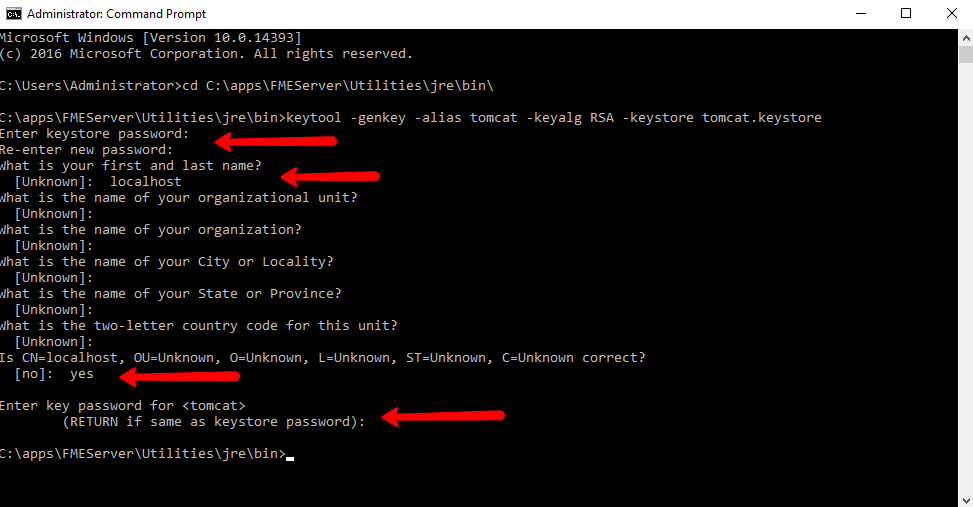
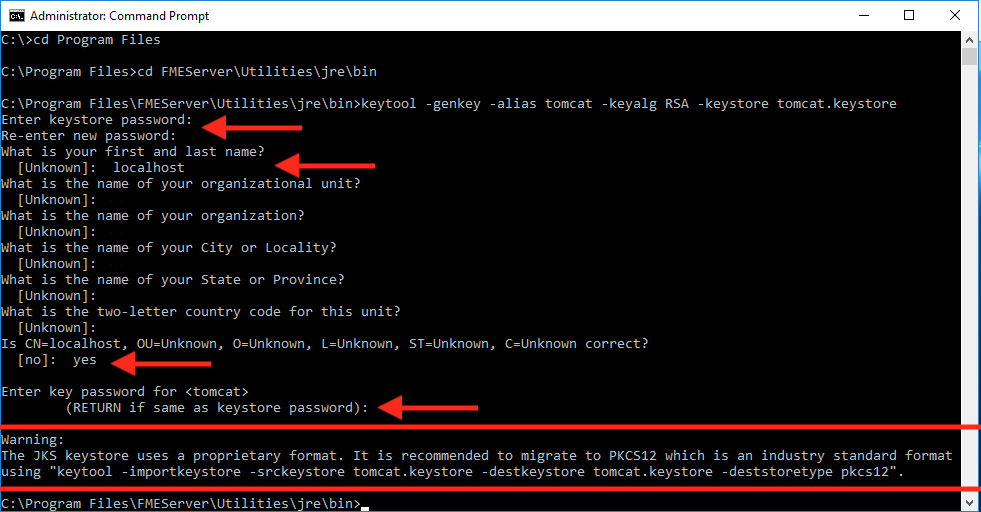
FME Server 2018 Updates

Changed region(s): [[0.0, 0.0, 1.0, 1.0], [0.8633, 0.0, 0.8941, 0.0296]]

diff --git a/ServerAdmin3Security/Exercise3_ConfiguringForHTTPS.md b/ServerAdmin3Security/Exercise3_ConfiguringForHTTPS.md
@@ -58,19 +58,46 @@ Set the following values when prompted:
 
 Enter *yes* when prompted if the input is correct. When prompted for the key password for &lt;tomcat&gt;, press RETURN.
 
-A new keystore is created in *C:\apps\FMEServer\Utilities\jre\bin\\*
-
-Copy the new keystore file to the tomcat directory in the FME Server installation:
-
-	copy tomcat.keystore C:\apps\FMEServer\Utilities\tomcat\tomcat.keystore
 
 ![](./Images/3.204.Ex3.ConfigureForHTTPS_createKeytool.png)
 
+A new keystore is created in *C:\Program Files\FMEServer\Utilities\jre\bin\\*
+
+Copy the new keystore file to the tomcat directory in the FME Server installation:
+
+	copy tomcat.keystore "C:\Program Files\FMEServer\Utilities\tomcat\tomcat.keystore"
+
+
+---
+
+<!--Tip Section-->
+
+<table style="border-spacing: 0px">
+<tr>
+<td style="vertical-align:middle;background-color:darkorange;border: 2px solid darkorange">
+<i class="fa fa-info-circle fa-lg fa-pull-left fa-fw" style="color:white;padding-right: 12px;vertical-align:text-top"></i>
+<span style="color:white;font-size:x-large;font-weight: bold;font-family:serif">TIP</span>
+</td>
+</tr>
+
+<tr>
+<td style="border: 1px solid darkorange">
+<span style="font-family:serif; font-style:italic; font-size:larger">
+Ensure the keystore file is **COPIED** NOT moved.
+<br>This is most important when working with a
+<br>distributed FME Server Core and FME Server
+<br>Web Application.
+</span>
+</td>
+</tr>
+</table>
+
+---
 
 <br>**2) Working with the Certificate**
 <br>The new keystore must be imported into the FME Server keystore for trusted certificates. In the command prompt, enter the following command:
 
-	keytool -importkeystore -srckeystore tomcat.keystore -destkeystore C:\apps\FMEServer\Utilities\jre\lib\security\cacerts
+	keytool -importkeystore -srckeystore tomcat.keystore -destkeystore "C:\Program Files\FMEServer\Utilities\jre\lib\security\cacerts"
 
 You will be prompted to enter two passwords. One for the destination keystore and one for the source keystore. The password for the destination keystore is **changeit**. The password for the source keystore is **tomcat**.
 
@@ -79,14 +106,14 @@ You will be prompted to enter two passwords. One for the destination keystore an
 ---
 
 **Configuring Tomcat**
-<br>In the next steps, we need to modify three configuration files of Apache Tomcat. All three files are located in the FME Server installation directory: *C:\apps\FMEServer\Utilities\tomcat\conf\\*
+<br>In the next steps, we need to modify three configuration files of Apache Tomcat. All three files are located in the FME Server installation directory: *C:\Program Files\FMEServer\Utilities\tomcat\conf\\*
 
 It is a good idea to make copies of any files you will be changing and place them in a separate directory until you have verified that the edits are working successfully.
 
 ---
 
 **3) Configure server.xml**
-<br>Open *C:\apps\FMEServer\Utilities\tomcat\conf\server.xml* file in a text editor in administrator mode.
+<br>Open *C:\Program Files\FMEServer\Utilities\tomcat\conf\server.xml* file in a text editor in administrator mode.
 
 Locate the *SSLEngine* setting in the *&lt;Listener&gt;* element, including *className="org.apache.catalina.core.AprLifecycleListener"* and change the *“on”* value to *“off”*.
 
@@ -99,7 +126,7 @@ Locate the *&lt;Connector&gt;* element that contains *protocol="org.apache.coyot
 		enableLookups="true" disableUploadTimeout="true"
 		acceptCount="100" maxThreads="200"
 		scheme="https" secure="true" SSLEnabled="true"
-		keystoreFile="C:\apps\FMEServer\Utilities\tomcat\tomcat.keystore"
+		keystoreFile="C:\Program Files\FMEServer\Utilities\tomcat\tomcat.keystore"
 		keystorePass="tomcat"
 		clientAuth="false" sslEnabledProtocols="TLSv1,TLSv1.1,TLSv1.2"
 		sslImplementationName="org.apache.tomcat.util.net.jsse.JSSEImplementation"
@@ -149,7 +176,7 @@ Save and close the *context.xml* file.
 <br>**6) Verify the Configuration**
 <br>Now that we have made our changes, we want to verify that HTTPS was configured correctly for FME Server.
 
-Restart the FME Server Application service from the **Start menu &gt; FME Server 2017.1 &gt; Restart FME Server**.
+Restart the FME Server Application service from the **Start menu &gt; FME Server 2018.0 &gt; Restart FME Server**.
 
 Open a browser and navigate to _https://localhost:8443/fmeserver_.
 
@@ -159,7 +186,7 @@ You should see the FME Server login page in a secured format.
 
 Note: If a self-signed certificate is used for testing, your browser may report the page as not secure:
 
-![](./Images/3.206.Ex4.ConnectionNotSecure_Warning.png)
+![](./Images/3.207.Ex3.ConnectionNotSecure_Warning.png)
 
 For self-signed certificates, some browsers will allow you to add an exception for _https://localhost:8443/_.
 
@@ -180,6 +207,34 @@ The *Change All Hosts* dialog opens. Make sure **Host** is set to _https://local
 The URLs will be updated to their new, correct values on the Services page.
 
 ![](./Images/3.211.Ex3.NewServiceURLs.png)
+
+
+
+---
+
+<!--Tip Section-->
+
+<table style="border-spacing: 0px">
+<tr>
+<td style="vertical-align:middle;background-color:darkorange;border: 2px solid darkorange">
+<i class="fa fa-info-circle fa-lg fa-pull-left fa-fw" style="color:white;padding-right: 12px;vertical-align:text-top"></i>
+<span style="color:white;font-size:x-large;font-weight: bold;font-family:serif">TIP</span>
+</td>
+</tr>
+
+<tr>
+<td style="border: 1px solid darkorange">
+<span style="font-family:serif; font-style:italic; font-size:larger">
+If you are making use of WebSockets with FME Server
+<br> please review the FME Server Admin Guide and
+<br> the section titled
+[Enable SSL on the WebSocket Server (Optional)](http://docs.safe.com/fme/2018.0/html/FME_Server_Documentation/Content/AdminGuide/configuring_for_https.htm)
+
+
+</span>
+</td>
+</tr>
+</table>
 
 ---
 

diff --git a/ServerAdmin3Security/3.06.FMEServerHTTPS.md b/ServerAdmin3Security/3.06.FMEServerHTTPS.md
@@ -3,7 +3,3 @@
 HTTPS ensures that communication between the client and server is encrypted, so that if it is intercepted, the third party cannot easily view or use the information. For FME Server, you can use HTTPS to ensure that sensitive login information is not exposed.
 
 When configuring FME Server for HTTPS, both Certification Authority (CA)-issued and self-signed certificates are supported.  Wildcard Certificates are also supported.
-
-<!--** SM: Need to consider expanding**
-Add configuration topics for distributed environments where Core and App Server are on separate systems. The steps in the doc do cover this but the steps must be carefully followed as it is easy to move the keystore file.  In summary both systems must have the keystores updated with the imported certificate.
--->

diff --git a/ServerAdmin3Security/3.05.ActiveDirectoryFMEServer.md b/ServerAdmin3Security/3.05.ActiveDirectoryFMEServer.md
@@ -100,9 +100,7 @@ Once Integrated Windows Authentication is configured, users will need to log int
 <tr>
 <td style="border: 1px solid darkorange">
 <span style="font-family:serif; font-style:italic; font-size:larger">
-<!-- at this time there is no timeout to expire a session.  sessions will remain until a restart of the FME Server Web Application occurs or a reboot of the FME Server system.-->
-Internet browser sessions: Web browser sessions to FME Server do not expire by default. 
-<br>To end a browser session with FME Server it is recommended to log out.
+Internet browser sessions: Web browser session to FME Server do not expire as long as the browser is active and the user is logged in.
 </span>
 </td>
 </tr>
